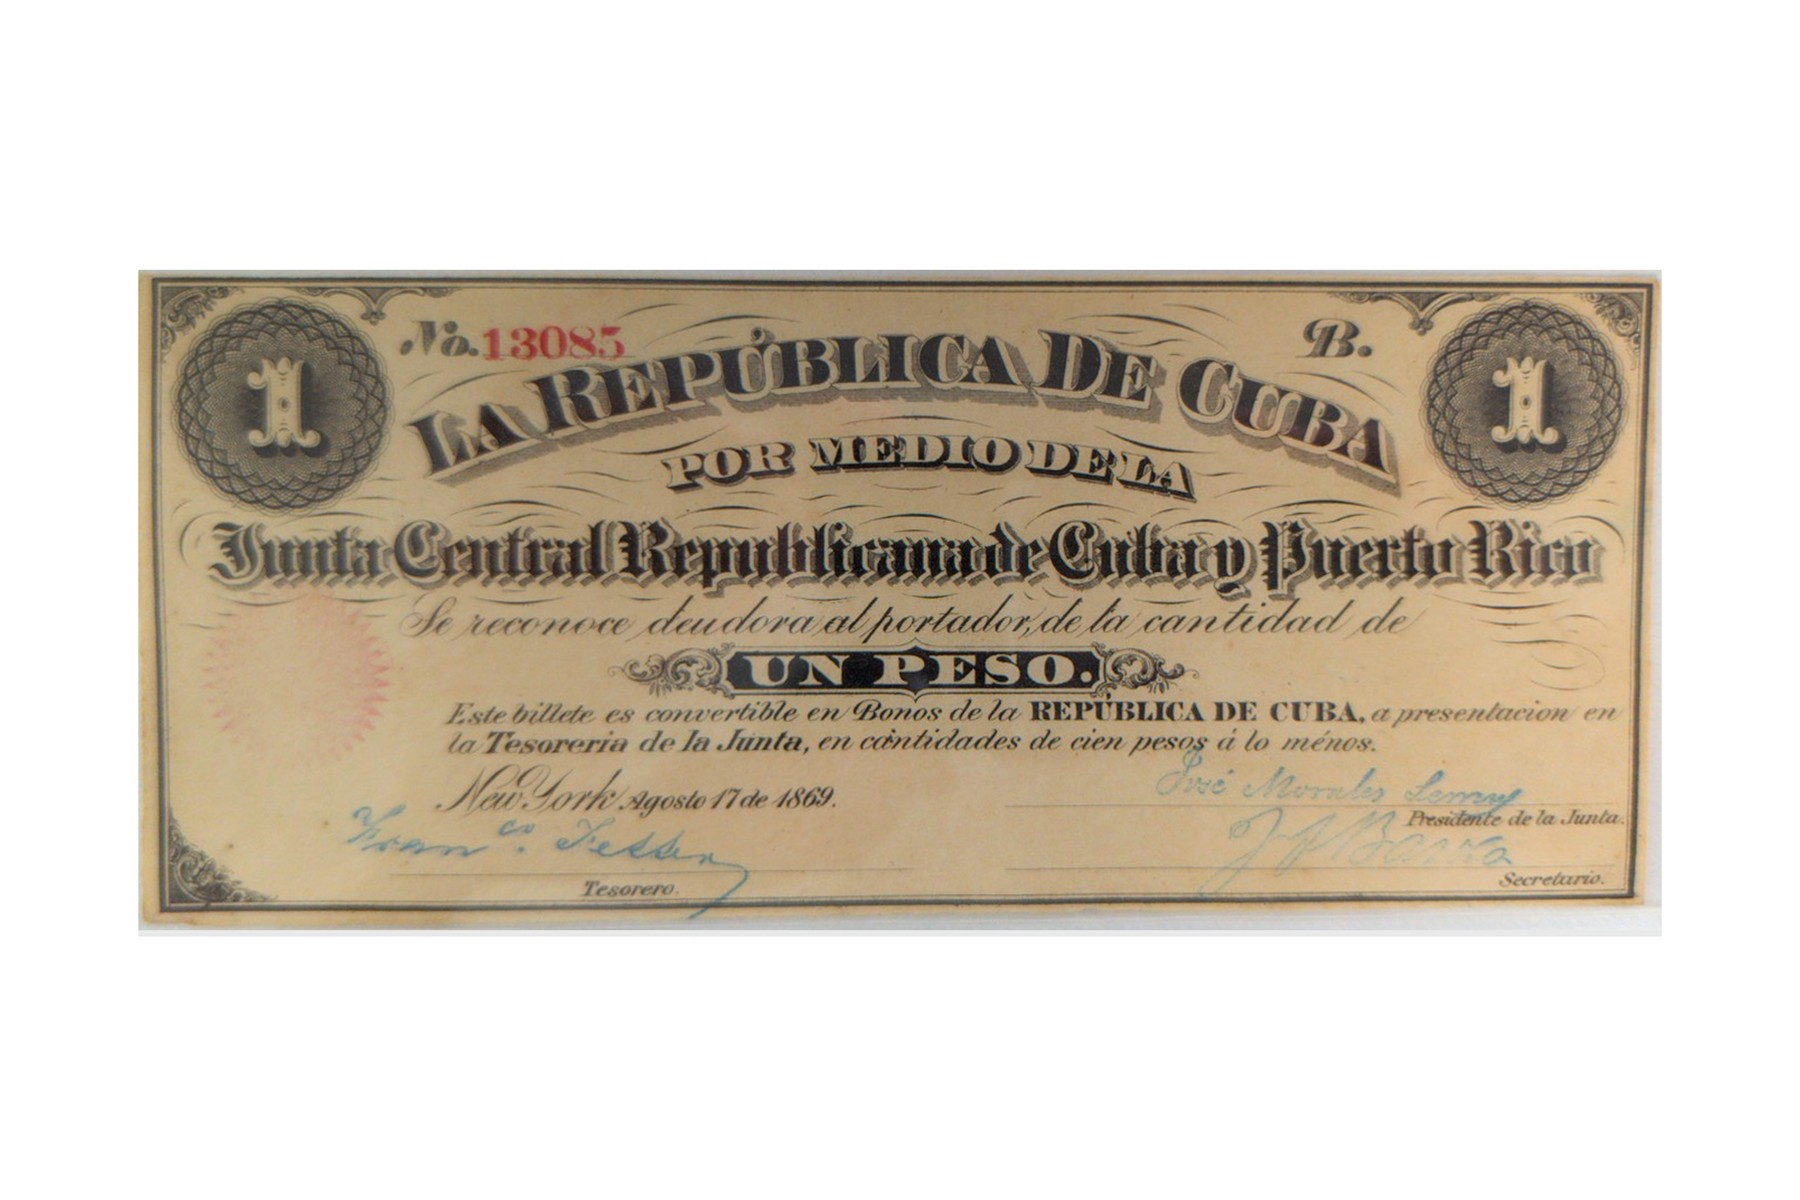
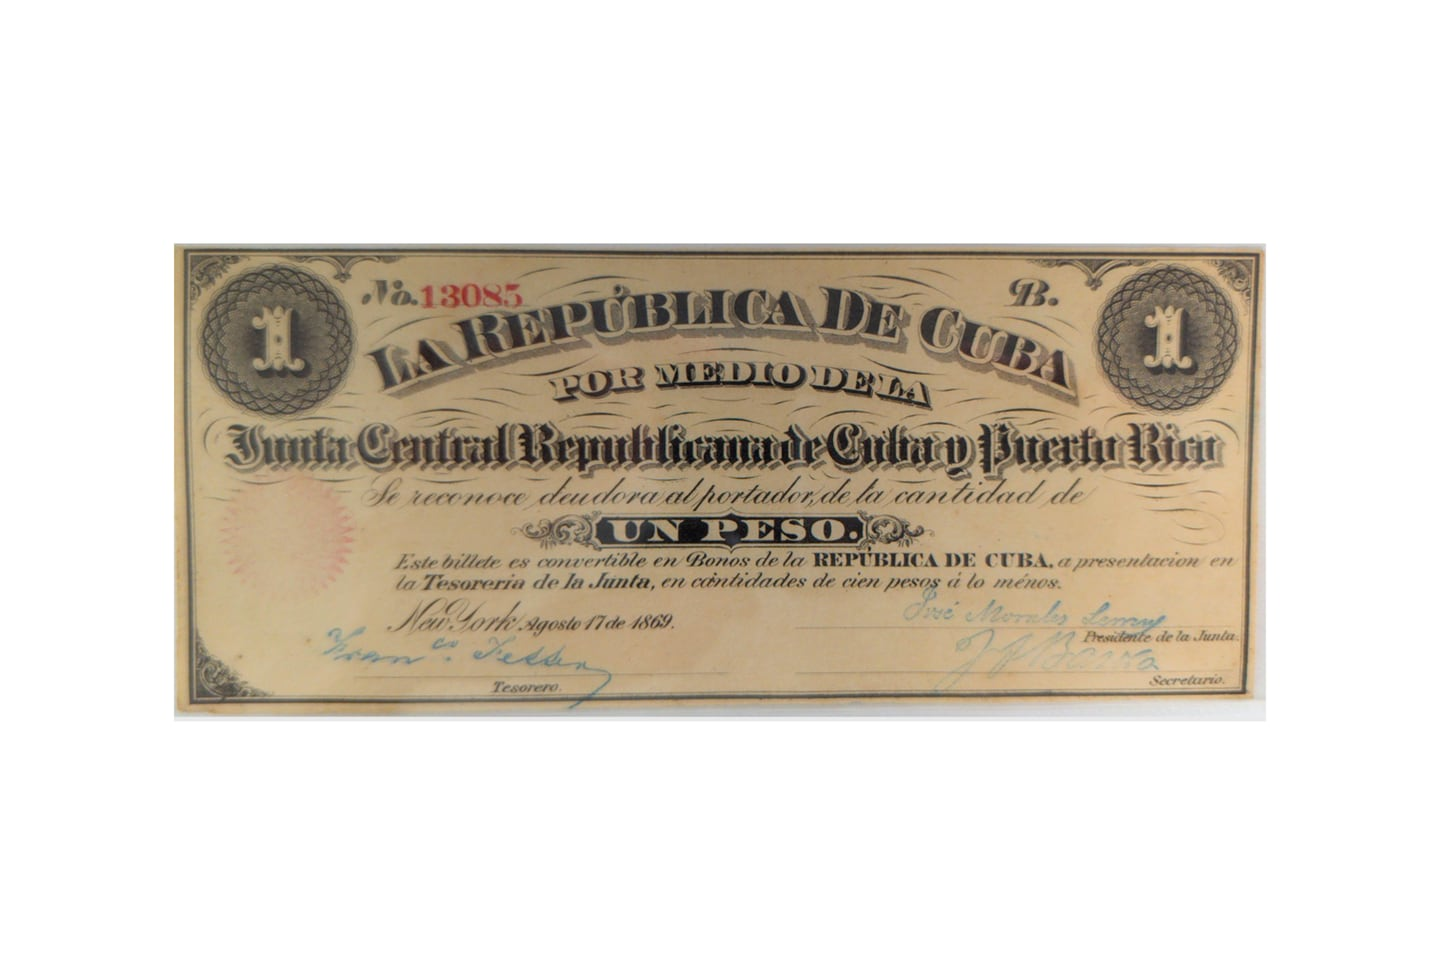
Replace Junta Central P#61 (13085) catalog scans with higher-quality masters
Swap front/back/composite masters from user-provided PNG scans (1440×960),
regenerate watermarked public copies, and align image dimensions in data.
Update back-caption bleed-through example to 13082 visible on the new scan.

Changed region(s): [[0.0625, 0.2188, 0.9375, 0.7812]]

diff --git a/src/data/puerto-rico.ts b/src/data/puerto-rico.ts
@@ -281,10 +281,10 @@ export const puertoRicoNotes: PuertoRicoNote[] = [
       composite: '/images/catalog/puerto-rico/pr-1869-junta-1-peso-13085-composite.jpg',
       front: '/images/catalog/puerto-rico/pr-1869-junta-1-peso-13085-front.jpg',
       back: '/images/catalog/puerto-rico/pr-1869-junta-1-peso-13085-back.jpg',
-      frontWidth: 1800,
-      frontHeight: 1200,
-      backWidth: 1800,
-      backHeight: 1200,
+      frontWidth: 1440,
+      frontHeight: 960,
+      backWidth: 1440,
+      backHeight: 960,
     },
     title: {
       es: '1 peso · Junta Central Republicana · 1869',
@@ -307,8 +307,8 @@ export const puertoRicoNotes: PuertoRicoNote[] = [
       en: 'Face of the P#61 1-peso note: Central Republican Board, No. 13085 series B, New York 17 August 1869; medallions with 1 and signatures of Morales Lemus, Bassora, and the Treasurer.',
     },
     backCaption: {
-      es: 'Reverso con transparencia del anverso por la delgadez del papel; la sangrado puede mostrar un número distinto (p. ej. 13083). El identificador de la pieza es el N.º 13085 impreso en rojo en el anverso.',
-      en: 'Back with show-through from the face through thin paper; bleed-through may show a different number (e.g. 13083). This piece’s identifier is red No. 13085 on the face.',
+      es: 'Reverso con transparencia del anverso por la delgadez del papel; la sangrado puede mostrar un número distinto (p. ej. 13082). El identificador de la pieza es el N.º 13085 impreso en rojo en el anverso.',
+      en: 'Back with show-through from the face through thin paper; bleed-through may show a different number (e.g. 13082). This piece’s identifier is red No. 13085 on the face.',
     },
     scarcity: {
       es: 'Pick 61–64 documenta los cuatro valores circulantes de la Junta del 17 de agosto de 1869 (1, 5, 10 y 20 pesos). Las fuentes numismáticas describen emisiones limitadas en Nueva York durante la Guerra de los Diez Años; en junio de 1869 Morales Lemus y Basora fueron detenidos bajo las leyes de neutralidad estadounidenses. El N.º 13085 es un serial ordinario. Esta ficha no inventa una tirada.',
